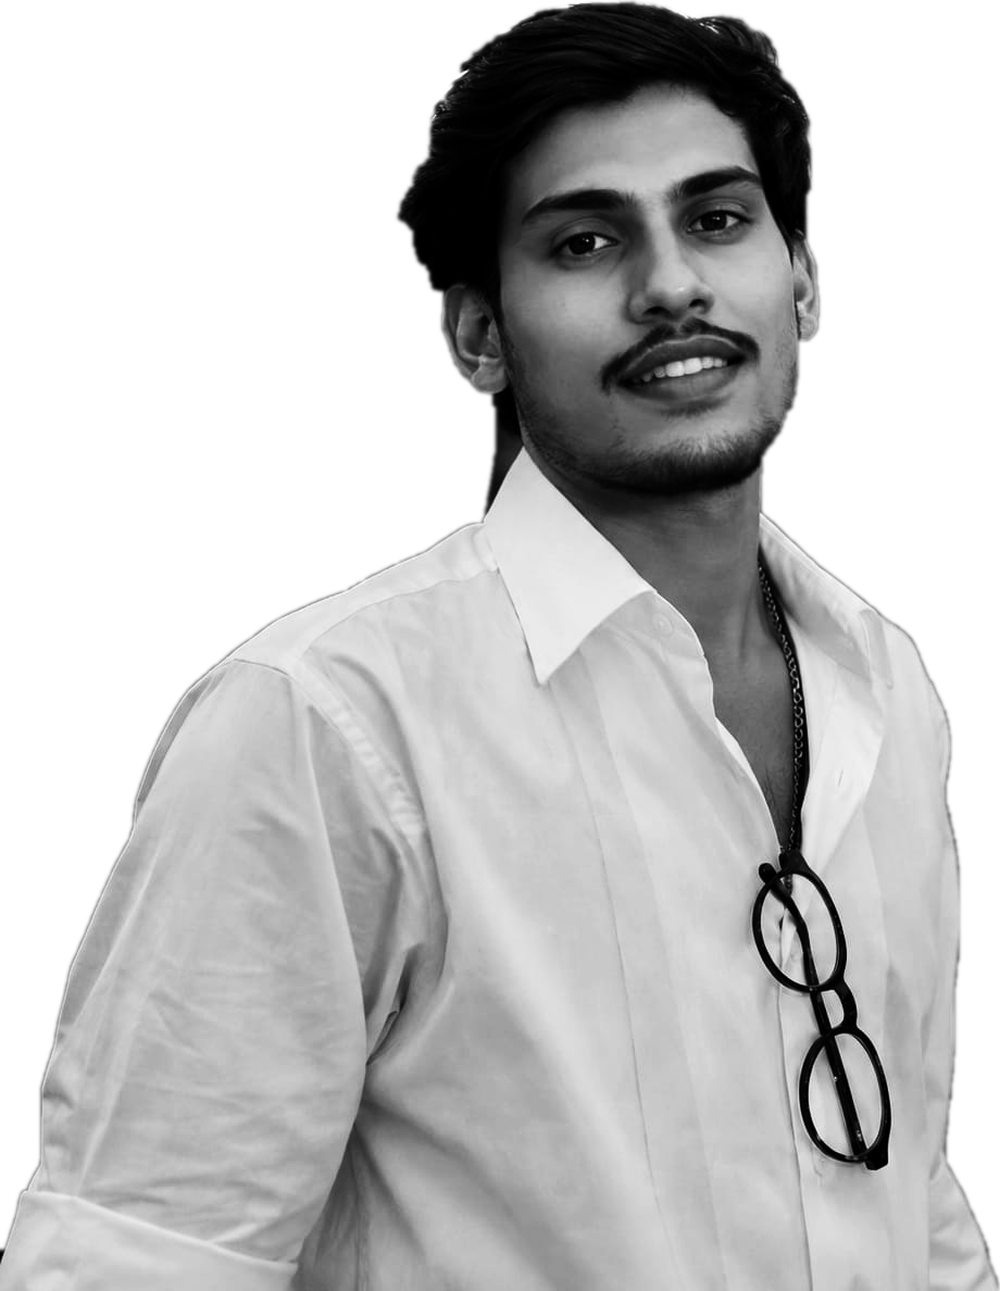
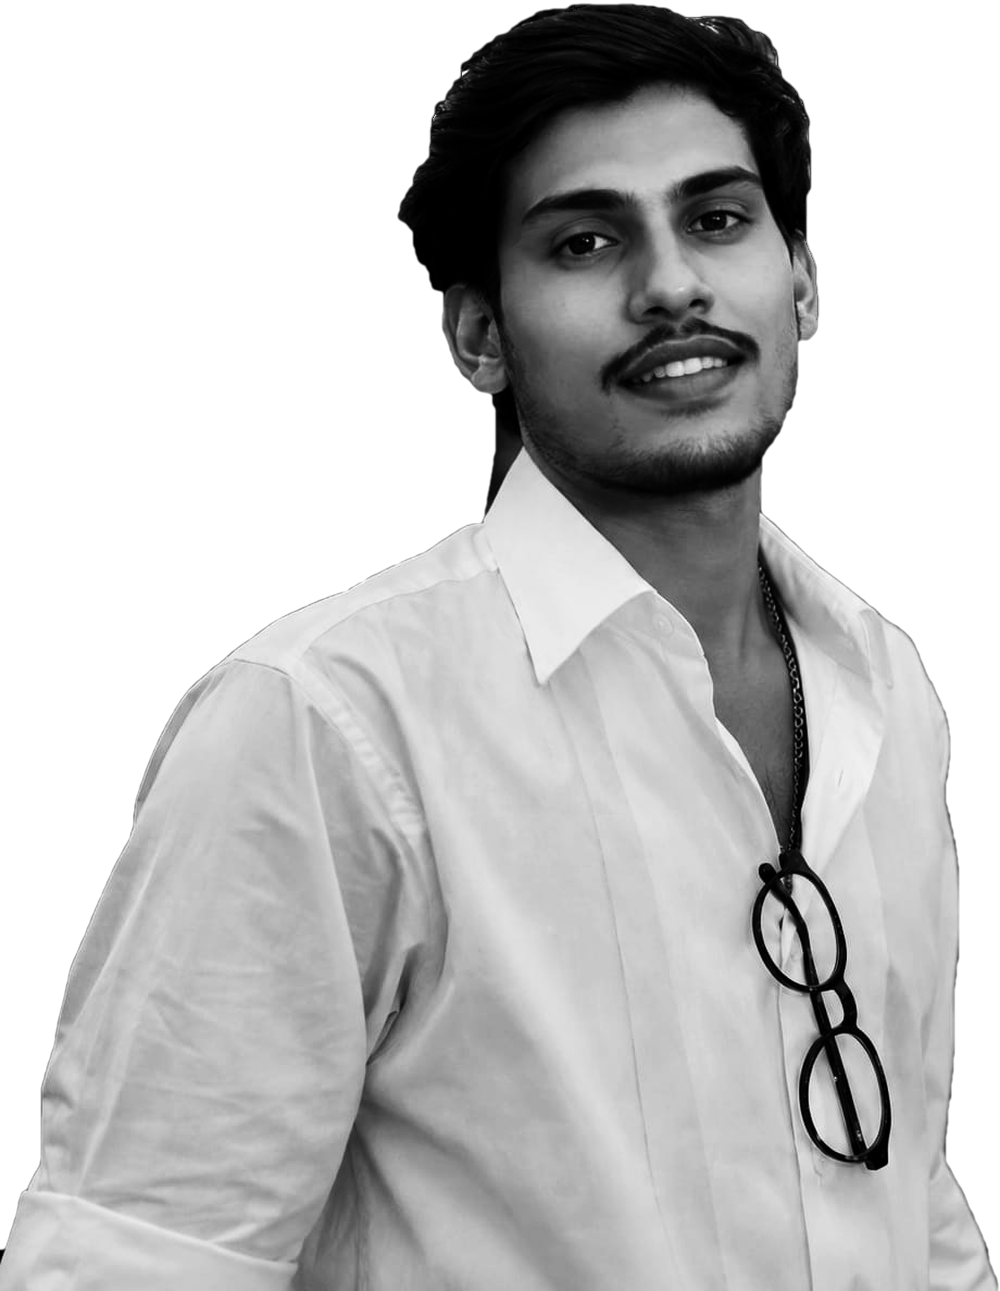
Refine hero portrait edges

diff --git a/src/index.css b/src/index.css
@@ -860,7 +860,7 @@ html, body, #root { background: #0C0C0C; font-family: 'Kanit', sans-serif; }
 @media (prefers-reduced-motion:reduce) { .hv-ch { transition:none; } .hv-ch.is-live { fill:#F0E2CF; stroke:#F0E2CF; } .hv-flow { display:none !important; } }
 /* Desktop: the portrait's head/torso centre (60.7% across the image, 77.5% wide at --ph tall) sits on the midpoint between the two words (--hv-gap, set from the headline fit; 55.1% before it runs). */
 .hv-portrait { --ph:min(90vh,76vw); position:absolute; z-index:3; bottom:0; left:calc(var(--hv-gap, 55.14%) - var(--ph) * .4704); height:var(--ph); pointer-events:none; }
-.hv-portrait img { height:100%; width:auto; display:block; filter:drop-shadow(0 0 1px rgba(240,226,207,.45)) drop-shadow(0 0 18px rgba(0,0,0,.6)) contrast(1.06); }
+.hv-portrait img { height:100%; width:auto; display:block; filter:drop-shadow(0 0 22px rgba(0,0,0,.75)) contrast(1.06); }
 /* Taglines sit below the headline's actual bottom edge (its height follows viewport width, not height), never above their old spot. */
 .hv { --hv-tag-top:max(66%, calc(27% + 19.5vw + clamp(2.5rem, 5vw, 6rem))); }
 .hv-left { position:absolute; z-index:4; left:3.2vw; top:var(--hv-tag-top); }
